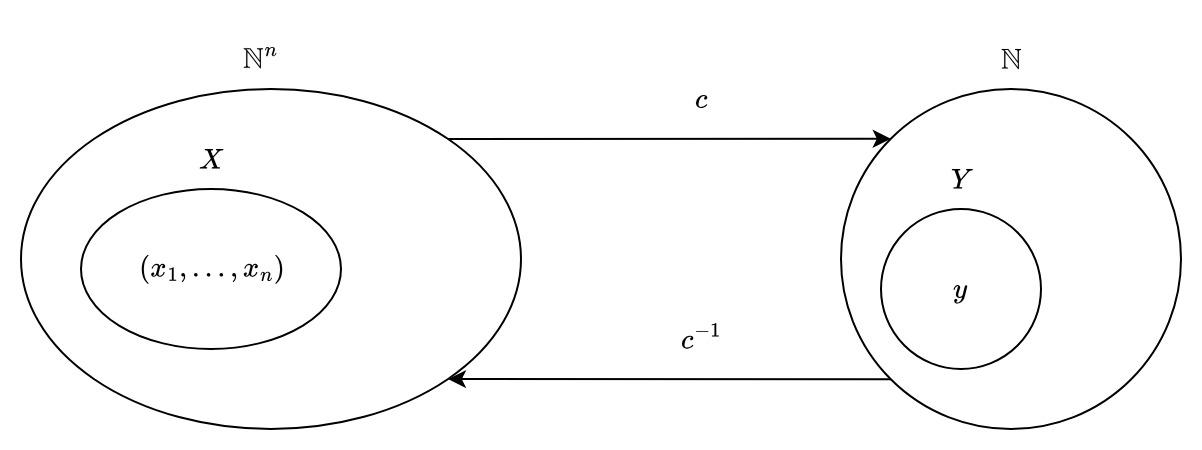
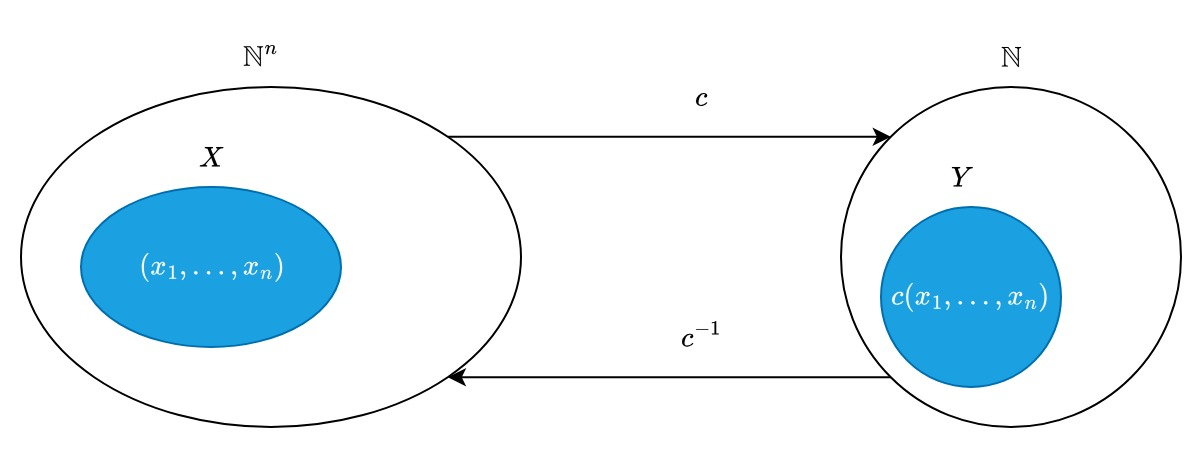
correted some definitions

diff --git a/index.html b/index.html
@@ -713,7 +713,7 @@ Lösung:
 \]</span></p>
 <p>Die Umkehrfunktion <span class="math inline">\(\text{dya}^{-1} : \{\textit{1,2}\}^* → ℕ\)</span> ist wie folgt definiert:</p>
 <p><span class="math display">\[
-\text{dya}^{-1}(a_{n-1}, ..., a_{0}) = \sum_{i = 0}^{n} \text{dec}(a_i) 2^i
+\text{dya}^{-1}(a_{n-1}, ..., a_{0}) = \sum_{i = 0}^{n} a_i ⋅ 2^i
 \]</span></p>
 </div>
 <div class="prop">
@@ -3259,6 +3259,19 @@ Lösung:
 <section id="church-these" class="level3">
 <h3 class="anchored" data-anchor-id="church-these">Church These</h3>
 <p>Jede algorithmisch berechenbare Funktion ist Turing-berechenbar.</p>
+<div class="prop">
+<ul>
+<li>HTML(mit CSS) ist Turing-vollständig.</li>
+<li>Powerpoint ist Turing-vollständig.</li>
+<li>Minecraft ist Turing-vollständig.</li>
+<li>The Game of Life ist Turing-vollständig.</li>
+<li>Modernes SQL mit der Möglichkeit von rekursiven Abfragen ist Turing-vollständig.</li>
+<li>C++ templates sind Turing-vollständig.</li>
+</ul>
+</div>
+<center>
+<p><img src="./img/HTMLMeme.jpg" class="img-fluid" style="width:80.0%"></p>
+</center>
 </section>
 </section>
 </section>
@@ -3401,9 +3414,9 @@ Lösung:
 <center>
 <p><img src="./img/Range.jpg" class="img-fluid" style="width:50.0%"></p>
 </center>
-<p><span class="math inline">\(X ⊆ ℕ^n\)</span> heißt <strong>aufzählbar</strong>, falls es eine bijektive, berechenbare Funktion <span class="math display">\[c^n : ℕ^n → ℕ\]</span> gibt, sodass die Menge <span class="math inline">\(Y = \{ c^n(x_1, ..., x_n) | (x_1, ..., x_n) ∈ X \} ⊆ ℕ\)</span> aufzählbar ist.</p>
+<p><span class="math inline">\(X ⊆ ℕ^n\)</span> heißt <strong>aufzählbar</strong>, falls es eine bijektive, berechenbare Funktion <span class="math display">\[c : ℕ^n → ℕ\]</span> gibt, sodass die Menge <span class="math inline">\(Y = \{ c(x_1, ..., x_n) | (x_1, ..., x_n) ∈ X \} ⊆ ℕ\)</span> aufzählbar ist.</p>
 <center>
-<p><img src="./img/NDimAufzählbarkeit.jpg" class="img-fluid" style="width:50.0%"></p>
+<p><img src="./img/NDimAufzählbarkeit.jpg" class="img-fluid" style="width:80.0%"></p>
 </center>
 </section>
 <div class="prop">
@@ -3576,6 +3589,7 @@ Lösung:
 </section>
 <section id="unentscheidbare-mengen" class="level2">
 <h2 class="anchored" data-anchor-id="unentscheidbare-mengen">Unentscheidbare Mengen</h2>
+<p><img src="./img/EntscheidbarkeitMeme.jpg" class="img-fluid"></p>
 <section id="das-halteproblem" class="level3">
 <h3 class="anchored" data-anchor-id="das-halteproblem"><strong>Das Halteproblem</strong></h3>
 <p>Wir können jedes RAM programm <span class="math inline">\(M_x\)</span> als eine natürliche Zahl <span class="math inline">\(x\)</span> kodieren.</p>
@@ -3693,14 +3707,15 @@ K = \{(x,y) \mid \text{ die RAM } M_x \text{ hält auf die Eingabe } y \}
 <h2 class="anchored" data-anchor-id="m-reduktion"><span class="math inline">\(m\)</span>-Reduktion</h2>
 <section id="definition-m-reduzierbarkeit" class="level3 def">
 <h3 class="anchored" data-anchor-id="definition-m-reduzierbarkeit">Definition: <strong>m-Reduzierbarkeit</strong></h3>
-<p>Seien <span class="math inline">\(A, B ⊆ ℕ\)</span>. Falls eine <span class="math inline">\(f:ℕ→ℕ\)</span> eine beliebige berechenbare funktion gibt mit</p>
+<p>Seien <span class="math inline">\(A, B ⊆ ℕ\)</span>. Falls eine <span class="math inline">\(f:ℕ→ℕ\)</span> eine totale berechenbare funktion gibt mit</p>
+<p><span class="math display">\[x ∈ A \quad ⟷ \quad f(x) ∈ B\]</span></p>
+<p>bzw.</p>
 <p><span class="math display">\[C_A(x) = C_B(f(x))\]</span></p>
 <p>sagen wir: <span class="math inline">\(A\)</span> ist <strong>m-reduzierbar</strong> auf <span class="math inline">\(B\)</span> bzw.</p>
 <p><span class="math display">\[
 A ≤_m B
 \]</span></p>
 <p><span class="math inline">\(f\)</span> heißt dann <strong>Reduktionsfunktion</strong>.</p>
-<p>Anmerkung: <span class="math inline">\(f\)</span> muss nicht injektiv oder surjektiv sein.</p>
 </section>
 <div class="prop">
 <p>Für Mengen <span class="math inline">\(A, B, C ⊆ ℕ\)</span> gilt:</p>
@@ -3710,6 +3725,7 @@ A ≤_m B
 <li><span class="math inline">\(A ≤_m B \quad ⇔ \quad \overline{A} ≤_m \overline{B}\)</span></li>
 <li><span class="math inline">\(A ≤_m ∅ \quad ⇔ \quad A = ∅\)</span></li>
 <li><span class="math inline">\(A ≤_m ℕ \quad ⇔ \quad A = ℕ\)</span></li>
+<li><span class="math inline">\(K_0 \not ≤_m \overline{K_0}\)</span></li>
 </ol>
 </div>
 <div class="callout callout-style-default callout-warning no-icon callout-titled">
@@ -3742,13 +3758,14 @@ Lösung:
 <p>Eine solche Relation nennen wir eine Präordnung.</p>
 <p>Ähnlich wie bei Äquivalenzrelationen erzeugt sie Klassen von Mengen, aber ordnet diese partiell!</p>
 <ul>
-<li><span class="math inline">\(E\)</span>: entscheidbare Mengen</li>
+<li><span class="math inline">\(ℕ\)</span></li>
+<li><span class="math inline">\(∅\)</span></li>
 <li><span class="math inline">\(E_-\)</span>: entscheidbare Mengen ohne <span class="math inline">\(∅\)</span> und <span class="math inline">\(ℕ\)</span></li>
 <li><span class="math inline">\(A\)</span>: aufzählbare, aber nicht entscheidbare Mengen</li>
-<li><span class="math inline">\(U\)</span>: nicht aufzählbare Mengen und somit unentscheidbare Mengen</li>
+<li><span class="math inline">\(U_i \quad ∀i ∈ (0,1)\)</span>: Klassen von unentscheidbare Mengen, die nicht aufzählbar sind. Wir wissen über diese Klassen fast nichts, außer den Satz von Rice.</li>
 </ul>
 <center>
-<p><img src="./img/HasseDiagramM.jpg" class="img-fluid" style="width:30.0%"></p>
+<p><img src="./img/HasseDiagramM.jpg" class="img-fluid" style="width:50.0%"></p>
 </center>
 </div>
 </div>
@@ -3768,16 +3785,6 @@ Lösung:
 <h4 class="anchored" data-anchor-id="theorem-von-myhill-1955">Theorem von Myhill (1955)</h4>
 <p>Fur jede aufzählbare Menge <span class="math inline">\(A\)</span> gilt <span class="math inline">\(A ≤_m K_0\)</span>.</p>
 </section>
-<p>Hasse Diagramm zu den <span class="math inline">\(m\)</span>-Reduktionsklassen:</p>
-<ul>
-<li><span class="math inline">\(E\)</span>: entscheidbare Mengen</li>
-<li><span class="math inline">\(E_-\)</span>: entscheidbare Mengen ohne <span class="math inline">\(∅\)</span> und <span class="math inline">\(ℕ\)</span></li>
-<li><span class="math inline">\(A\)</span>: aufzählbare, aber nicht entscheidbare Mengen</li>
-<li><span class="math inline">\(U\)</span>: nicht aufzählbare Mengen und somit unentscheidbare Mengen</li>
-</ul>
-<center>
-<p><img src="./img/HasseDiagramM.jpg" class="img-fluid" style="width:30.0%"></p>
-</center>
 <div class="def">
 <p><span class="math display">\[
 P(\mathcal{F}) := \{i ∈ ℕ \mid \text{ RAM } M_i \text{ berechnet eine Funktion in } \mathcal{F}\}
@@ -3801,6 +3808,15 @@ P(\mathcal{F}) := \{i ∈ ℕ \mid \text{ RAM } M_i \text{ berechnet eine Funkti
 </ol>
 <p>⚠️ Die Aussage ist <strong>nicht</strong>: <span class="math inline">\(ν^1 ∉ \mathcal{F} \; ⇒ \; P(\mathcal{F})\)</span> ist aufzählbar</p>
 </section>
+<p><img src="./img/RiceMeme.jpg" class="img-fluid"></p>
+<p>Hasse Diagramm zu den <span class="math inline">\(m\)</span>-Reduktionsklassen, ⚠️unvollständig:</p>
+<ul>
+<li><span class="math inline">\(E_-\)</span>: entscheidbare Mengen ohne <span class="math inline">\(∅\)</span> und <span class="math inline">\(ℕ\)</span></li>
+<li><span class="math inline">\(A\)</span>: aufzählbare, aber nicht entscheidbare Mengen</li>
+</ul>
+<center>
+<p><img src="./img/HasseDiagramM.jpg" class="img-fluid" style="width:50.0%"></p>
+</center>
 </section>
 </section>
 <section id="komplexitätstheorie" class="level1">
@@ -3823,8 +3839,15 @@ P(\mathcal{F}) := \{i ∈ ℕ \mid \text{ RAM } M_i \text{ berechnet eine Funkti
 <li><p>Ein Algorithmus <span class="math inline">\(M\)</span> entscheidet <span class="math inline">\(A ⊆ (Σ^∗)^m\)</span> in der Zeit <span class="math inline">\(t\)</span> (bzw. <span class="math inline">\(\mathcal{O}(t)\)</span>), falls <span class="math inline">\(M\)</span> die charakteristische Funktion <span class="math inline">\(c_A\)</span> in der Zeit <span class="math inline">\(t\)</span> (bzw. <span class="math inline">\(\mathcal{O}(t)\)</span>) berechnet.</p></li>
 </ol>
 </section>
+<div class="prop">
+<p>Für jede dyadisch kodierte Zahl <span class="math inline">\(x\)</span> gilt:</p>
+<p><span class="math display">\[
+2^{|x|} - 1 ≤ x ≤ 2^{|x|+1} - 2
+\]</span></p>
+</div>
 <section id="laufzeit-von-ram-programmen" class="level3">
 <h3 class="anchored" data-anchor-id="laufzeit-von-ram-programmen">Laufzeit von RAM Programmen</h3>
+<p>Jeder Befehl einer RAM ist genau ein Zeitschritt.</p>
 <p>Betrachte das RAM Programm <span class="math inline">\(M\)</span>:</p>
 <div class="sourceCode" id="cb36"><pre class="sourceCode ram code-with-copy"><code class="sourceCode ram"><span id="cb36-1"><a href="#cb36-1" aria-hidden="true" tabindex="-1"></a><span class="co"># f(x, y, z) = z + x ⋅ y</span></span>
 <span id="cb36-2"><a href="#cb36-2" aria-hidden="true" tabindex="-1"></a>0   <span class="dt">R3</span> <span class="fu">←</span> <span class="bn">1</span></span>
@@ -3837,17 +3860,87 @@ P(\mathcal{F}) := \{i ∈ ℕ \mid \text{ RAM } M_i \text{ berechnet eine Funkti
 <span id="cb36-9"><a href="#cb36-9" aria-hidden="true" tabindex="-1"></a>5   <span class="dt">R0</span> <span class="fu">←</span> <span class="dt">R2</span></span>
 <span id="cb36-10"><a href="#cb36-10" aria-hidden="true" tabindex="-1"></a>6   <span class="kw">STOP</span></span></code><button title="Copy to Clipboard" class="code-copy-button"><i class="bi"></i></button></pre></div>
 <p>wir sagen, dass die Schleife <span class="math inline">\(y\)</span>-mal durchlaufen.</p>
-<p><span class="math display">\[t_M(x,y,z) = 4y + 3\]</span> <span class="math display">\[≤ 4 ⋅ 2^{|y|+1} - 8 + 3\]</span> <span class="math display">\[≤ 8 ⋅ 2^{|x|+|y|+|z|} - 5 \]</span> <span class="math display">\[≤ 8 ⋅ 2^n\]</span></p>
+<p><span class="math display">\[t_M(x,y,z) = 4y + 3\]</span></p>
+<p>y ist muss noch codiert werden, damit wir die Laufzeit in Abhängigkeit von der Eingabelänge angeben können. Dafür brauchen wir <span class="math inline">\(|y|\)</span> Stellen, also ist <span class="math inline">\(y ≤ 2^{|y|+1} - 2\)</span>.</p>
+<p><span class="math display">\[≤ 4 ⋅ 2^{|y|+1} - 8 + 3\]</span> <span class="math display">\[≤ 8 ⋅ 2^{|x|+|y|+|z|} - 5 \]</span> <span class="math display">\[≤ 8 ⋅ 2^n\]</span></p>
+</section>
+<section id="laufzeit-von-turingmaschinen" class="level3">
+<h3 class="anchored" data-anchor-id="laufzeit-von-turingmaschinen">Laufzeit von Turingmaschinen</h3>
+<p>Jede Anwendung einer Übergangsfunktion einer Turingmaschine ist genau ein Zeitschritt.</p>
+<p>Betrachte die Turingmaschine <span class="math inline">\(M\)</span> mit einer eingabe <span class="math inline">\(x\)</span> die die funktion <span class="math inline">\(S\)</span> berechnet:</p>
+<p><img src="./img/TM_S.jpg" class="img-fluid"></p>
+<ul>
+<li><span class="math inline">\(z_0\)</span> hat genau <span class="math inline">\(|x|\)</span> Schritte die auf <span class="math inline">\(→ z_0\)</span> zeigen.</li>
+<li><span class="math inline">\(z_a\)</span> hat <span class="math inline">\(1 + k\)</span> Schritte, wobei <span class="math inline">\(k ≤ |x|\)</span> die Anzahl der hinteren 2en im Wort <span class="math inline">\(x\)</span> ist.</li>
+<li><span class="math inline">\(z_b\)</span> hat <span class="math inline">\(|x| - k\)</span> viele Schritte.</li>
+<li>Auf <span class="math inline">\(z_1\)</span> zeigt genau ein Schritt, entweder von <span class="math inline">\(z_a\)</span> oder von <span class="math inline">\(z_b\)</span>.</li>
+</ul>
+<p><span class="math display">\[t_M(x) = 1 + |x| + (1+k) + (|x| - k) = 2|x| + 2 ≤ 2n + 2\]</span></p>
+</section>
+<section id="laufzeit-von-höheren-programmiersprachen" class="level3">
+<h3 class="anchored" data-anchor-id="laufzeit-von-höheren-programmiersprachen">Laufzeit von Höheren Programmiersprachen</h3>
+<p>als 0 Schritte zählen 0 intialisierungen. zb <code>z = 0, A = fill(0, 10, 10)</code> als ein schritt zählen: <code>+,-,&lt;,&gt;,≤,≥,==,!=,!,&amp;&amp;,||</code>, Zuweisungen und <code>return</code>. als <span class="math inline">\(n\)</span> schritte zählen: <code>*,/,÷</code></p>
+<div class="sourceCode" id="cb37"><pre class="sourceCode julia code-with-copy"><code class="sourceCode julia"><span id="cb37-1"><a href="#cb37-1" aria-hidden="true" tabindex="-1"></a><span class="kw">function</span> <span class="fu">prod</span>(x,y)</span>
+<span id="cb37-2"><a href="#cb37-2" aria-hidden="true" tabindex="-1"></a>    z <span class="op">=</span> <span class="fl">0</span> <span class="co"># initialisierung zählt als 0 Schritte</span></span>
+<span id="cb37-3"><a href="#cb37-3" aria-hidden="true" tabindex="-1"></a>    <span class="cf">while</span> (y <span class="op">&gt;</span> <span class="fl">0</span>) <span class="co"># y-mal durchlaufen +1 mal aufgerufen</span></span>
+<span id="cb37-4"><a href="#cb37-4" aria-hidden="true" tabindex="-1"></a>        z <span class="op">+=</span> x <span class="co"># zählt als 2 Schritte</span></span>
+<span id="cb37-5"><a href="#cb37-5" aria-hidden="true" tabindex="-1"></a>        y <span class="op">-=</span> <span class="fl">1</span> <span class="co"># zählt als 2 Schritte</span></span>
+<span id="cb37-6"><a href="#cb37-6" aria-hidden="true" tabindex="-1"></a>    <span class="cf">end</span></span>
+<span id="cb37-7"><a href="#cb37-7" aria-hidden="true" tabindex="-1"></a>    <span class="cf">return</span> z <span class="co"># zählt als 1 Schritt</span></span>
+<span id="cb37-8"><a href="#cb37-8" aria-hidden="true" tabindex="-1"></a><span class="kw">end</span></span></code><button title="Copy to Clipboard" class="code-copy-button"><i class="bi"></i></button></pre></div>
+<p><span class="math display">\[
+\begin{aligned}
+t_{\text{M}}(x,y) &amp;= 5y + 1 + 1 \\
+&amp;≤ 5 ⋅ (2^{|y| + 1} - 2) + 2 \quad (\text{Länge der Codierung})\\
+&amp;≤ 5 ⋅ 2^{|y| + 1} \\
+&amp;≤ 10 ⋅ 2^{|x| + |y|} \\
+&amp;≤ 10 ⋅ 2^n
+\end{aligned}
+\]</span></p>
 </section>
 </section>
 <section id="die-klasse-mathcalp" class="level2">
 <h2 class="anchored" data-anchor-id="die-klasse-mathcalp">Die Klasse <span class="math inline">\(\mathcal{P}\)</span></h2>
-<p><img src="./img/Rechenmodelle.png" class="img-fluid"></p>
 <div class="quarto-video ratio ratio-16x9"><iframe data-external="1" src="https://www.youtube.com/embed/Of_cpDNoZtE" title="" frameborder="0" allow="accelerometer; autoplay; clipboard-write; encrypted-media; gyroscope; picture-in-picture" allowfullscreen=""></iframe></div>
+<div class="def">
+<p>Ein Algorithmus <span class="math inline">\(M\)</span> berechnet <span class="math inline">\(f:(Σ^*)^m → Σ\)</span> in Polynomialzeit, falls ein Polynom <span class="math display">\[
+p(n) = a_0 + a_1n + ... + a_rn^r
+\]</span> mit <span class="math inline">\(r, a_0, ..., a_r ∈ ℕ\)</span> gibt, sodass <span class="math inline">\(M\)</span> die Funktion <span class="math inline">\(f\)</span> in der Zeit <span class="math inline">\(p\)</span> berechnet.</p>
+</div>
+<div class="prop">
+<p><img src="./img/Rechenmodelle.png" class="img-fluid"></p>
+<p><span class="math inline">\(f\)</span> ist durch eine RAM in Polynomialzeit berechenbar.</p>
+<p><span class="math inline">\(⇔\)</span></p>
+<p><span class="math inline">\(f\)</span> ist in Julia in Polynomialzeit berechenbar.</p>
+<p><span class="math inline">\(⇔\)</span></p>
+<p><span class="math inline">\(f\)</span> ist durch eine Turingmaschine in Polynomialzeit berechenbar.</p>
+<p><span class="math inline">\(⇔\)</span></p>
+<p><span class="math inline">\(f\)</span> ist durch eine 1-Turingmaschine in Polynomialzeit berechenbar</p>
+<p>⚠️ Es gibt Funktionen, zb. prod, die in einer 1-Turingmaschine nur in Polynomialzeit berechenbar sind, aber in einer RAM oder in Julia auch in linearer Zeit berechenbar sind.</p>
+</div>
+<div class="def">
+<p><span class="math display">\[
+\textbf{FP} := \{f ∣ f \text{ ist eine in Polynomialzeit berechenbare Funktion}\}
+\]</span></p>
+<p><span class="math display">\[
+\textbf{P} := \{A ∣ A \text{ ist eine in Polynomialzeit entscheidbare Menge}\}
+\]</span></p>
+</div>
+<div class="prop">
+<ol type="1">
+<li>Für alle Mengen <span class="math inline">\(A\)</span> gilt <span class="math inline">\(A ∈ \textbf{P} \quad ⇔ \quad c_A ∈ \textbf{FP}\)</span></li>
+<li>sum, prod, md, div, exp <span class="math inline">\(∈ \textbf{FP}\)</span></li>
+<li><span class="math inline">\(\textbf{FP}\)</span> ist abgeschlossen unter Hintereinanderausführung und jedem Operator in <span class="math inline">\(\textbf{FP}\)</span>.</li>
+<li><span class="math inline">\(\textbf{P}\)</span> ist abgeschlossen unter Komplementbildung, Vereinigung, Durchschnitt.</li>
+</ol>
+</div>
 </section>
 <section id="die-klasse-mathcalnp" class="level2">
 <h2 class="anchored" data-anchor-id="die-klasse-mathcalnp">Die Klasse <span class="math inline">\(\mathcal{NP}\)</span></h2>
 <div class="quarto-video ratio ratio-16x9"><iframe data-external="1" src="https://www.youtube.com/embed/FpeP_gr0Eu4" title="" frameborder="0" allow="accelerometer; autoplay; clipboard-write; encrypted-media; gyroscope; picture-in-picture" allowfullscreen=""></iframe></div>
+<div class="def">
+<p>Eine Menge <span class="math inline">\(A ⊆ Σ^*_1\)</span> liegt genau dann in der Klasse <span class="math inline">\(\textbf{NP}\)</span>, wenn ein Polynom <span class="math inline">\(p\)</span> und eine Menge <span class="math inline">\(B ∈ \textbf{P}\)</span> existieren, sodass für alle <span class="math inline">\(x ∈ Σ^*_1\)</span> gilt: <span class="math inline">\(x ∈ A ⟺ (∃y ∈ Σ^*_2)[|y| ≤ p(|x|) ∧ (x, y) ∈ B]\)</span></p>
+</div>
 </section>
 <section id="mathcalnp-vollständige-mengen" class="level2">
 <h2 class="anchored" data-anchor-id="mathcalnp-vollständige-mengen"><span class="math inline">\(\mathcal{NP}\)</span>-vollständige Mengen</h2>